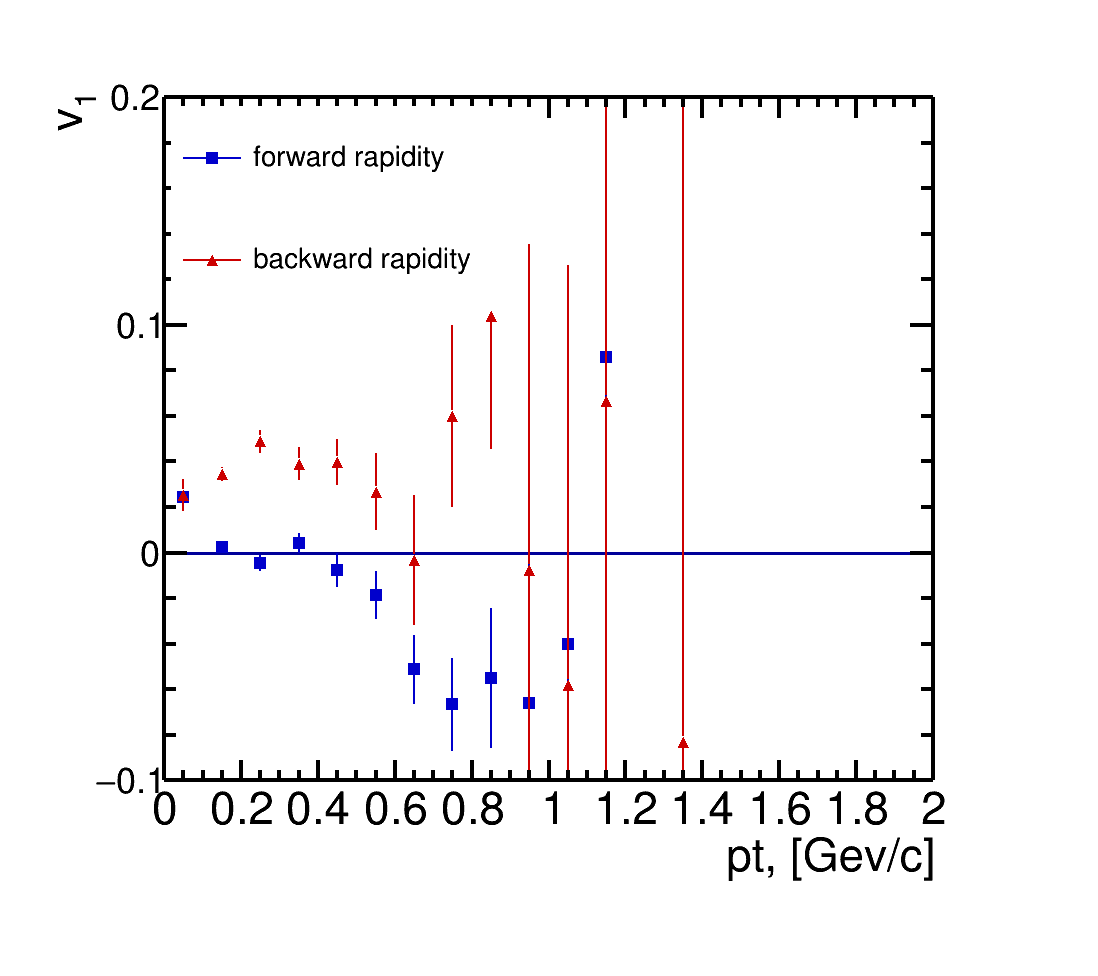
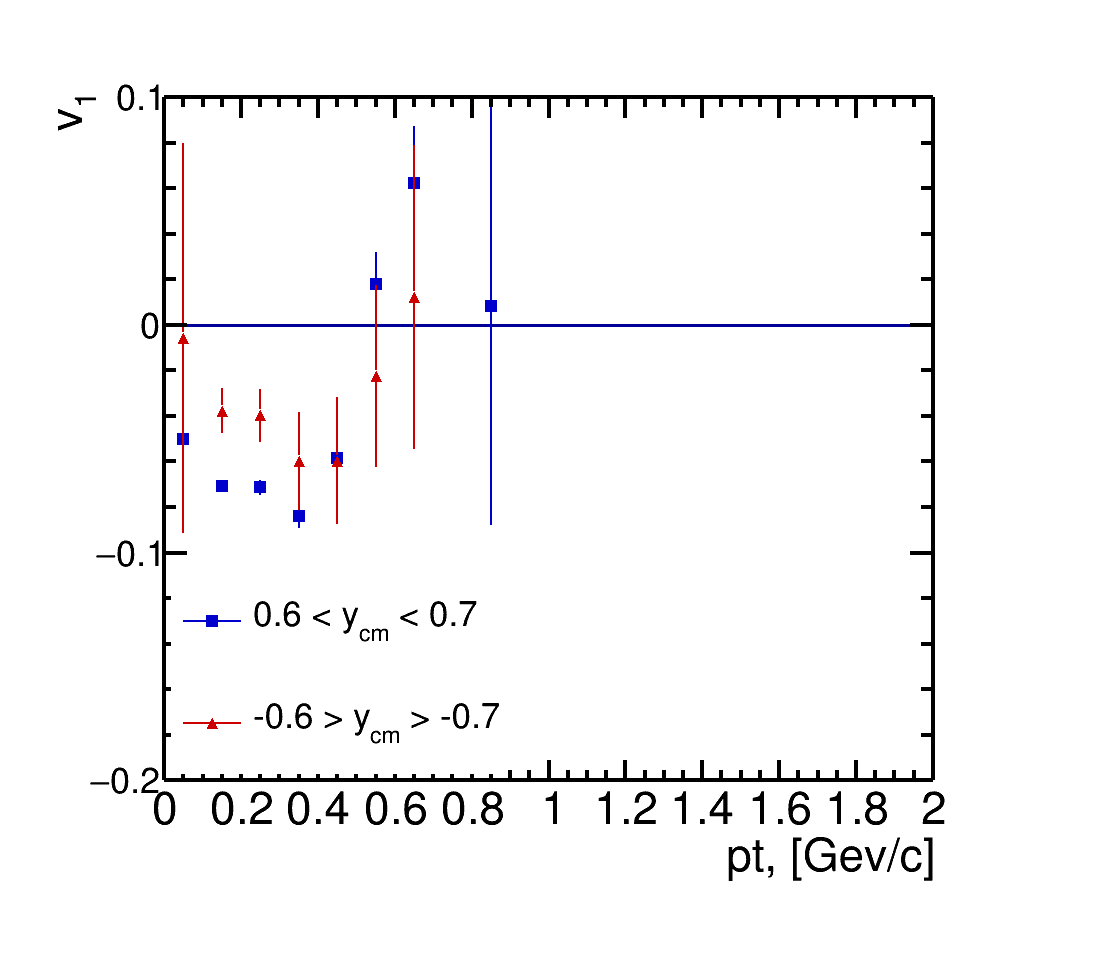
Bugs fixed

diff --git a/src/flow.cpp b/src/flow.cpp
@@ -12,10 +12,15 @@
 #include "TFile.h"
 #include "CorrelationMananger.h"
 #include "Method3Se.h"
+#include <fstream>
+
+// ./Build_Flow input_file output_file config_file
+
+std::vector<std::string> ReadConfig(std::string config_file_name);
 
 int main( int argc, char** argv )
 {
-  if( argc==1 ){
+  if( argc < 3 ){
     std::cout << "Error: Incorrecet number of arguments, " << argc-1 <<
     " given, 2 is required" << std::endl;
     std::cout << "Exit." << std::endl;
@@ -23,22 +28,29 @@ int main( int argc, char** argv )
   }
   std::string input_file_name=argv[1];
   std::string output_file_name=argv[2];
+  std::string config_file_name=argv[3];
+
+  std::vector<std::string> temp_vectors{ReadConfig(config_file_name)};
+  std::string u_vector=temp_vectors.back();
+  std::vector<std::string> q_vector;
+  for(unsigned int i=0; i<temp_vectors.size()-1; i++){
+    q_vector.push_back(temp_vectors.at(i));
+  }
   auto file = TFile::Open(input_file_name.data());
   CorrelationMananger mananger;
   mananger.SetFile(file);
   Method3Se method_3se;
   method_3se.SetName("3Sub");
-  std::cout << method_3se.GetName() << std::endl;
   method_3se.Init();
   std::vector<std::string> q_correlations{
-    "Fw1Sp_Fw2Sp",
-    "Fw3Sp_Fw1Sp",
-    "Fw2Sp_Fw3Sp"
+    q_vector.at(0)+"_"+q_vector.at(1),
+    q_vector.at(2)+"_"+q_vector.at(0),
+    q_vector.at(1)+"_"+q_vector.at(2)
   };
   std::vector<std::string> u_correlations{
-    "TracksMdcPtFw_Fw1Sp",
-    "TracksMdcPtFw_Fw2Sp",
-    "TracksMdcPtFw_Fw3Sp"
+    u_vector+"_"+q_vector.at(0),
+    u_vector+"_"+q_vector.at(1),
+    u_vector+"_"+q_vector.at(2),
   };
   std::vector<std::string> components{
     "_XX",
@@ -68,3 +80,16 @@ int main( int argc, char** argv )
   return 0;
 }
 
+std::vector<std::string> ReadConfig(std::string config_file_name){
+  std::vector<std::string> temp_vectors;
+  std::ifstream config_file(config_file_name);
+  if(config_file.is_open()){
+    std::string buff_line;
+    while (getline(config_file, buff_line)) {
+      temp_vectors.push_back(buff_line);
+      std::cout << buff_line << std::endl;
+    }
+  }
+  config_file.close();
+  return temp_vectors;
+}

diff --git a/Painter/DrawFwBw.C b/Painter/DrawFwBw.C
@@ -2,8 +2,8 @@
 
 void DrawFwBw(){
   SetStyle();
-  auto file_fw = TFile::Open("../Output_Files/PionPlusFw.root");
-  auto file_bw = TFile::Open("../Output_Files/PionPlusBw.root");
+  auto file_fw = TFile::Open("../Output_Files/ProtonFw.root");
+  auto file_bw = TFile::Open("../Output_Files/ProtonBw.root");
   if( !file_fw ) {
     return;
   }
@@ -12,21 +12,21 @@ void DrawFwBw(){
   }
   TH1F *histo_fw, *histo_bw;
   file_fw->GetObject( "histo_", histo_fw );
-  histo_fw->Scale(-1.0);
   file_bw->GetObject( "histo_", histo_bw );
+  histo_bw->Scale(-1.0);
   auto stack = new THStack("stack", ";pt, [Gev/c]; v_{1}");
   stack->Add( histo_fw );
   stack->Add( histo_bw );
   stack->SetMinimum(-0.1);
-  stack->SetMaximum(0.2);
-  histo_fw->SetTitle("forward rapidity");
+  stack->SetMaximum(0.55);
+  histo_fw->SetTitle("0.6 < y_{cm} < 0.7");
   histo_fw->SetMarkerStyle(21);
   histo_fw->SetMarkerSize(1.5);
   histo_fw->SetMarkerColor(kBlue+1);
   histo_fw->SetLineWidth(2);
   histo_fw->SetLineColor(kBlue+1);
 
-  histo_bw->SetTitle("backward rapidity");
+  histo_bw->SetTitle("-0.6 > y_{cm} > -0.7");
   histo_bw->SetMarkerStyle(22);
   histo_bw->SetMarkerSize(1.5);
   histo_bw->SetMarkerColor(kRed+1);
@@ -37,5 +37,5 @@ void DrawFwBw(){
   canvas->cd();
   stack->Draw("NOSTACK");
   gPad->BuildLegend();
-  canvas->Print("PionPlus.png");
+  canvas->Print("Proton.png");
 }

diff --git a/src/Container.h b/src/Container.h
@@ -73,7 +73,7 @@ public:
         entries+=bin.GetProfile().Entries();
         float mean = bin.Mean();
         float error = bin.Error();
-        std::cout << "bin: " << i << " mean:" << mean << " error:" << error << std::endl;
+        // std::cout << "bin: " << i << " mean:" << mean << " error:" << error << std::endl;
         if( mean != mean )
           continue;
         histo_->SetBinContent(i+1, mean);
